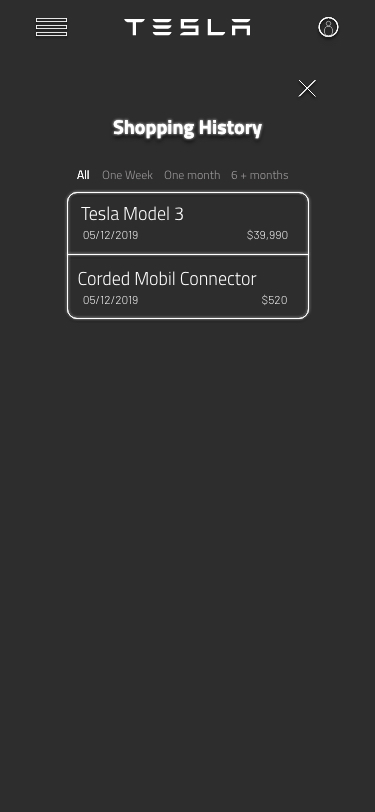
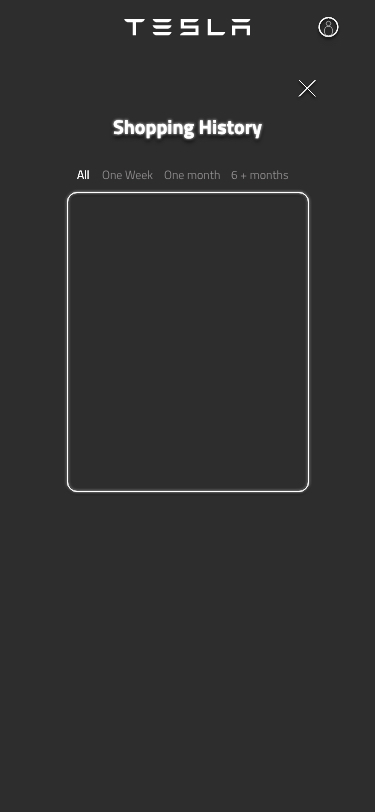
Ya estan perfectos todos los cambios de pantalla

Changed region(s): [[0.176, 0.2463, 0.8213, 0.6158], [0.8213, 0.4002, 0.8507, 0.585], [0.088, 0.0308, 0.176, 0.0616]]

diff --git a/src/Main.java b/src/Main.java
@@ -5,7 +5,7 @@ import processing.core.PImage;
 public class Main extends PApplet {
 
 	// CARGAR LAS IMAGENES
-	PImage allNegrita1;
+	PImage allNegrita;
 	PImage bottonSignIn;
 	PImage compare1;
 	PImage compare2;
@@ -29,7 +29,11 @@ public class Main extends PApplet {
 	PImage menu4;
 	PImage payment;
 	PImage service;
-	PImage shopp;
+	PImage carroAzul;
+	PImage carroBlanco;
+	PImage carroGris;
+	PImage carroNegro;
+	PImage carroRojo;
 	PImage signIn;
 	PImage signInWithOut;
 	PImage storeGallery;
@@ -41,9 +45,13 @@ public class Main extends PApplet {
 	int home;
 	int menu;
 	int drop;
+	int color;
+	int next;
 	
 	//BOOLEAN
-	boolean allNegrita;
+	
+	
+	
 	
 	//ANIMACIONES
 	int flechas [];
@@ -65,7 +73,7 @@ public class Main extends PApplet {
 	}
 	
 	public void setup () {
-		allNegrita1 = loadImage("imagen/allNegrita.png");
+		allNegrita = loadImage("imagen/allNegrita.png");
 		bottonSignIn = loadImage("imagen/bottonSignIn.jpg");
 		compare1 = loadImage("imagen/compare1.jpg");
 		compare2 = loadImage("imagen/compare2.jpg");
@@ -89,7 +97,11 @@ public class Main extends PApplet {
 		modelY = loadImage("imagen/modelY.jpg");
 		payment = loadImage("imagen/payment.jpg");
 		service = loadImage("imagen/service.jpg");
-		shopp = loadImage("imagen/shopp.jpg");
+		carroAzul = loadImage("imagen/carroAzul.jpg");
+		carroBlanco = loadImage("imagen/carroBlanco.jpg");
+		carroGris = loadImage("imagen/carroGris.jpg");
+		carroNegro = loadImage("imagen/carroNegro.jpg");
+		carroRojo = loadImage("imagen/carroRojo.jpg");
 		signIn = loadImage("imagen/signIn.jpg");
 		signInWithOut = loadImage("imagen/signInWithOut.jpg");
 		storeGallery = loadImage("imagen/storeGallery.jpg");
@@ -99,8 +111,11 @@ public class Main extends PApplet {
 		home = 0;
 		menu = 0;
 		drop = 0;
+		color = 0;
+		next = 0;
 		
-		allNegrita = false;
+		
+		
 
 		
 		
@@ -150,18 +165,58 @@ background (225);
 			switch (drop) {
 			case 0:
 				image (dropDownMenu1, 0, 0);
+				if (mouseX > 37 && mouseX < 192 && mouseY > 183 && mouseY < 211) {
+					image(allNegrita, 0, 0);
+				}
 				break;
 			case 1:
 				image (dropDownMenu2, 0, 0);
+				if (mouseX > 37 && mouseX < 192 && mouseY > 183 && mouseY < 211) {
+					image(allNegrita, 0, 0);
+				}
 				break;
 			case 2:
 				image (dropDownMenu3, 0, 0);
+				if (mouseX > 37 && mouseX < 192 && mouseY > 183 && mouseY < 211) {
+					image(allNegrita, 0, 0);
+				}
 				break;
 			case 3:
 				image (dropDownMenu4, 0, 0);
+				if (mouseX > 37 && mouseX < 192 && mouseY > 183 && mouseY < 211) {
+					image(allNegrita, 0, 0);
+				}
 				break;
 			}
 			break;
+		case 4:
+			image (history, 0, 0);
+			break;
+		case 5:
+			image (carroBlanco, 0, 0);
+			break;
+		case 6:
+			image (payment, 0, 0);
+			break;
+		case 7:
+			image (details, 0, 0);
+		case 8:
+			switch (next) {
+			case 0:
+				image (compare1, 0, 0);
+				break;
+			case 1: 
+				image (compare2, 0, 0);
+				break;
+			case 2:
+				image (compare3, 0, 0);
+				break;
+			case 3:
+				image (compare4, 0, 0);
+				break;
+			}
+			break;
+			
 			
 		
 			}
@@ -188,10 +243,22 @@ background (225);
 		        //FLECHA IZQUIERDA
 				} else if (mouseX > 37 && mouseX < 53 && mouseY > 402 && mouseY < 441) {
 					home = 3;
+				//CLICK MENU	
 				} else if (mouseX > 37 && mouseX < 68 && mouseY > 19 && mouseY < 40) {
 					screen = 2;
 					menu = 0;
 				}
+				//CLICK ORDER NOW 
+				if (mouseX > 133 && mouseX < 226 && mouseY > 115 && mouseY < 135) {
+					screen = 5;
+				}
+				//CLICK COMPARE
+				if (mouseX > 133 && mouseX < 226 && mouseY > 153 && mouseY < 175) {
+					screen = 8;
+					next = 0;
+				}
+				
+				
 				break;
 			case 1:
 				//FLECHA DERECHA
@@ -200,9 +267,15 @@ background (225);
 				//FLECHA IZQUIERDA
 				} else if (mouseX > 37 && mouseX < 53 && mouseY > 402 && mouseY < 441) {
 					home = 0;
+				//CLICK MENU	
 				} else if (mouseX > 37 && mouseX < 68 && mouseY > 19 && mouseY < 40) {
 					screen = 2;
 					menu = 1;
+				}
+				//CLICK ORDER NOW 
+				if (mouseX > 133 && mouseX < 226 && mouseY > 115 && mouseY < 135) {
+					screen = 5;
+					color = 0;
 				}
 				break;
 			case 2:
@@ -212,9 +285,15 @@ background (225);
 				//FLECHA IZQUIERDA
 				} else if (mouseX > 37 && mouseX < 53 && mouseY > 402 && mouseY < 441) {
 					home = 1;
+				//CLICK MENU	
 				} else if (mouseX > 37 && mouseX < 68 && mouseY > 19 && mouseY < 40) {
 					screen = 2;
 					menu = 2;
+				}
+				//CLICK ORDER NOW 
+				if (mouseX > 133 && mouseX < 226 && mouseY > 115 && mouseY < 135) {
+					screen = 5;
+					color = 0;
 				}
 				break;
 			case 3:
@@ -224,9 +303,15 @@ background (225);
 				//FLECHA IZQUIERDA
 				} else if (mouseX > 37 && mouseX < 53 && mouseY > 402 && mouseY < 441) {
 					home = 2;
+				//CLICK MENU	
 				} else if (mouseX > 37 && mouseX < 68 && mouseY > 19 && mouseY < 40) {
 					screen = 2;
 					menu = 3;
+				}
+				//CLICK ORDER NOW 
+				if (mouseX > 133 && mouseX < 226 && mouseY > 115 && mouseY < 135) {
+					screen = 5;
+					color = 0;
 				}
 				break;
 			}
@@ -289,12 +374,19 @@ background (225);
 					screen = 1;
 					home = 0;
 				}
+				
+				if (mouseX > 37 && mouseX < 192 && mouseY > 183 && mouseY < 211) {
+					screen = 4;
+				}
 				break;
 			case 1:
 				if (mouseX > 37 && mouseX < 68 && mouseY > 19 && mouseY < 40 ||
 						mouseX > 245 && mouseX < 375 && mouseY > 0 && mouseY < 812)  {
 					screen = 1;
 					home = 1;
+				}
+				if (mouseX > 37 && mouseX < 192 && mouseY > 183 && mouseY < 211) {
+					screen = 4;
 				}
 				break;
 			case 2:
@@ -303,6 +395,9 @@ background (225);
 					screen = 1;
 					home = 2;
 				}
+				if (mouseX > 37 && mouseX < 192 && mouseY > 183 && mouseY < 211) {
+					screen = 4;
+				}
 				break;
 			case 3:
 				if (mouseX > 37 && mouseX < 68 && mouseY > 19 && mouseY < 40 ||
@@ -310,10 +405,95 @@ background (225);
 					screen = 1;
 					home = 3;
 				}
+				if (mouseX > 37 && mouseX < 192 && mouseY > 183 && mouseY < 211) {
+					screen = 4;
+				}
 				break;
 				
 			}
 			break;
+		case 4:
+			if (mouseX > 298 && mouseX < 317 && mouseY > 80 && mouseY < 100 ||
+					mouseX > 123 && mouseX < 251 && mouseY > 20 && mouseY < 39) {
+				screen = 1;
+			}
+			if (mouseX > 298 && mouseX < 317 && mouseY > 80 && mouseY < 100 ||
+					mouseX > 123 && mouseX < 251 && mouseY > 20 && mouseY < 39) {
+				screen = 1;
+			}
+			break;
+		case 5:
+			if (mouseX > 109 && mouseX < 268 && mouseY > 588 && mouseX < 625) {
+				screen = 6;
+			}
+			if (mouseX > 298 && mouseX < 317 && mouseY > 80 && mouseY < 100 ||
+					mouseX > 123 && mouseX < 251 && mouseY > 20 && mouseY < 39) {
+				screen = 1;
+			}
+			break;
+		case 6:
+			if (mouseX > 109 && mouseX < 268 && mouseY > 588 && mouseX < 625) {
+				screen = 7;
+			}
+			if (mouseX > 298 && mouseX < 317 && mouseY > 80 && mouseY < 100 ||
+					mouseX > 123 && mouseX < 251 && mouseY > 20 && mouseY < 39) {
+				screen = 1;
+			}
+			break;
+		case 7:
+		
+			break;
+		case 8:
+			switch (next) {
+			case 0:
+				if (mouseX > 323 && mouseX < 339 && mouseY > 405 && mouseX < 435) {
+					//screen = 7;
+					next = 1;
+				}
+				if (mouseX > 298 && mouseX < 317 && mouseY > 80 && mouseY < 100 ||
+						mouseX > 123 && mouseX < 251 && mouseY > 20 && mouseY < 39) {
+					screen = 1;
+				}
+				break;
+			case 1:
+				if (mouseX > 323 && mouseX < 339 && mouseY > 405 && mouseX < 435) {
+					//screen = 7;
+					next = 2;
+				} else if (mouseX > 37 && mouseX < 58 && mouseY > 405 && mouseX < 435) {
+					next = 0;
+				}
+				if (mouseX > 298 && mouseX < 317 && mouseY > 80 && mouseY < 100 ||
+						mouseX > 123 && mouseX < 251 && mouseY > 20 && mouseY < 39) {
+					screen = 1;
+				}
+				break;
+			case 2:
+				if (mouseX > 323 && mouseX < 339 && mouseY > 405 && mouseX < 435) {
+					//screen = 7;
+					next = 3;
+				} else if (mouseX > 37 && mouseX < 58 && mouseY > 405 && mouseX < 435) {
+					next = 1;
+				}
+				if (mouseX > 298 && mouseX < 317 && mouseY > 80 && mouseY < 100 ||
+						mouseX > 123 && mouseX < 251 && mouseY > 20 && mouseY < 39) {
+					screen = 1;
+				}
+				break;
+			case 3:
+				if (mouseX > 37 && mouseX < 58 && mouseY > 405 && mouseX < 435) {
+					next = 2;
+				}
+				if (mouseX > 298 && mouseX < 317 && mouseY > 80 && mouseY < 100 ||
+						mouseX > 123 && mouseX < 251 && mouseY > 20 && mouseY < 39) {
+					screen = 1;
+				}
+				
+				break;
+			}
+			
+			
+			
+			
 			
 			
 		}
